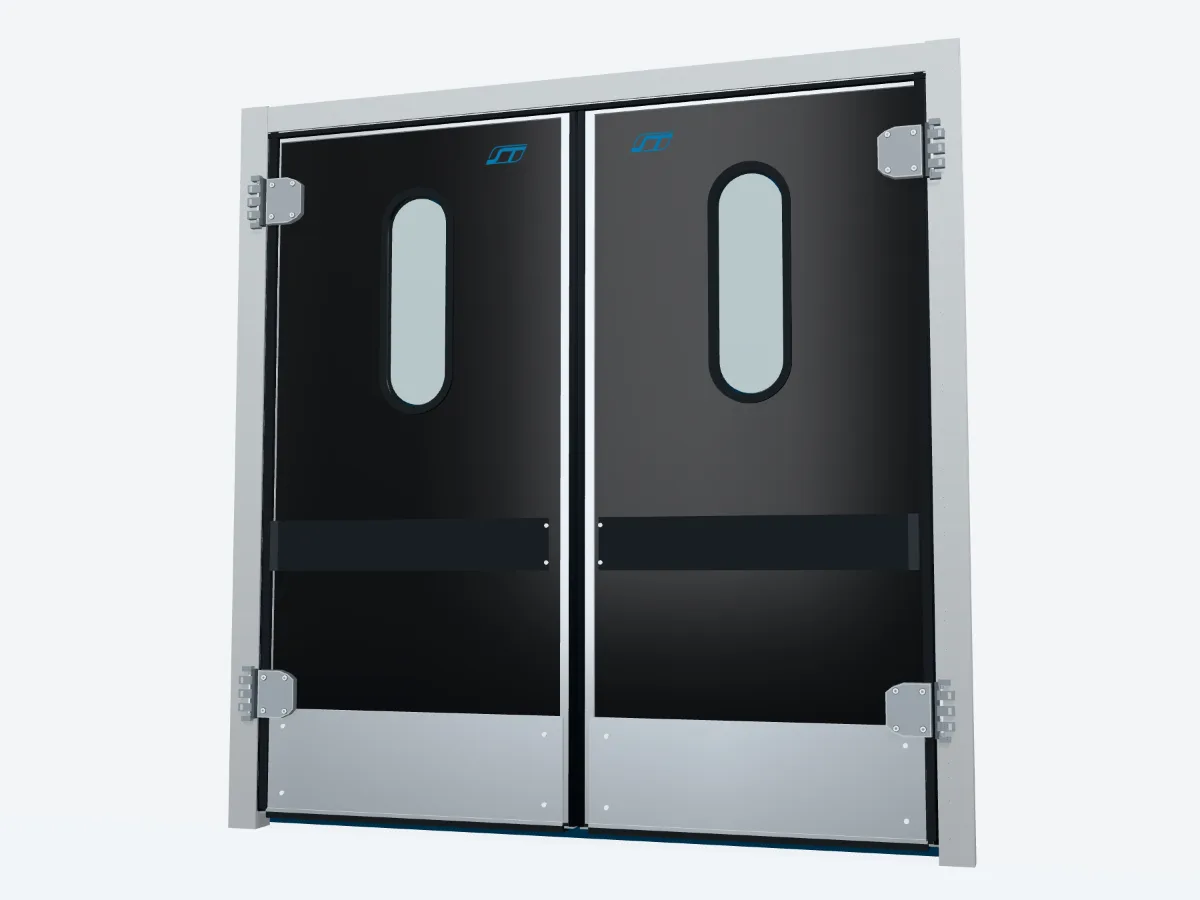
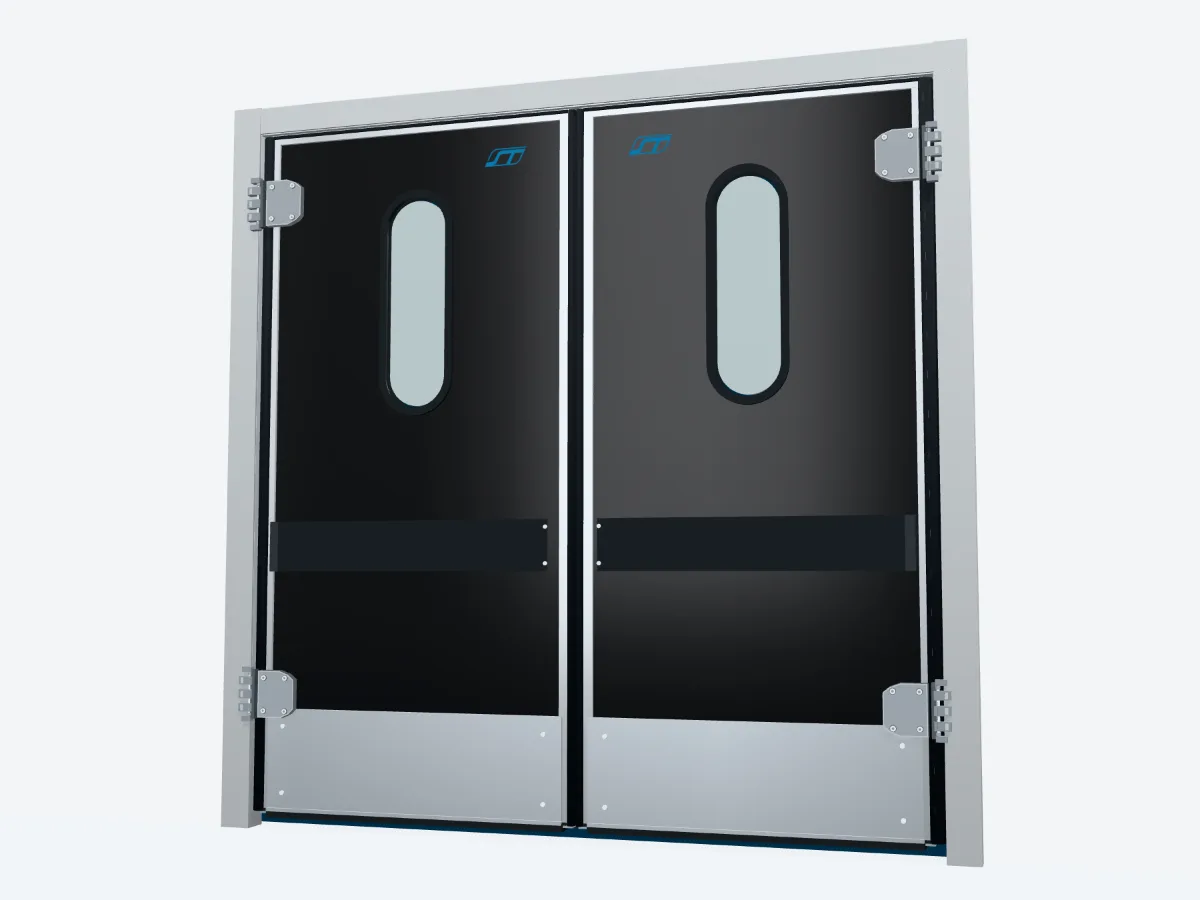
Fase 3C-2 (parte 2): vaivén con bisagra de dos ejes, mitad fija y marco sin intersecciones
- Marco más ancho (cada poste 31.5 mm afuera) y cabezal 6.5 mm más alto, aplicados al cargar;
  frente del marco pegado al cuerpo. vaiven.bin sin cambios.
- Hinge: giro opcional sobre dos ejes (uno por sentido) y arrastre que cambia de eje al pasar
  por el cierre. La abatible no lo usa.
- Columna de nudillos como mitad fija por cara; la de la cara contraria acompaña a la hoja.
- Botón y pasos escalonan las dos hojas para que los empaques del canto no se crucen.
- verify-vaiven: holguras de −63° a +63°; hoja dentro del marco 0 mm (antes 39.9 mm).

Claude-Session: https://claude.ai/code/session_01TBWQEjLHZPnHA2zJL6ZtDh

diff --git a/src/viewers/vaiven.js b/src/viewers/vaiven.js
@@ -7,7 +7,7 @@ import * as THREE from 'three';
 import manifest from '../models/vaiven.json';
 import binUrl from '../models/vaiven.bin?url';
 import logoUrl from '../models/logo-hoja.png';
-import { createRig, VAIVEN } from './vaiven.rig.js';
+import { createRig, VAIVEN, axisLocal, widenFrame, splitPieces } from './vaiven.rig.js';
 import { Hinge, hingeMotion } from '../core/hinge.js';
 import { createBackdrop } from '../core/backdrop.js';
 import { frameBox, orbitView } from '../core/cameraRig.js';
@@ -35,12 +35,13 @@ const FIXED = new Set(['frame-light']);
 const OMIT = new Set(['static/gasket']);
 
 // Cajas de encuadre (m): marco con las hojas cerradas, entreabiertas y abiertas hacia el frente
-const BOX = { closed: [-1.26, 0, -0.06, 1.26, 2.53, 0.10], ajar: [-1.26, 0, -0.06, 1.26, 2.53, 0.60], open: [-1.26, 0, -0.06, 1.26, 2.53, 1.07] };
+const W = 1.2495 + VAIVEN.frame.shift + 0.01, H = 2.5205 + VAIVEN.frame.lift + 0.01;
+const BOX = { closed: [-W, 0, -0.10, W, H, 0.10], ajar: [-W, 0, -0.10, W, H, 0.62], open: [-W, 0, -0.10, W, H, 1.16] };
 
 export function createVaiven(stage, reg) {
   const { root, slots } = createRig();
   // el marco queda dentro del vano del muro; detrás, el interior azul marino
-  const backdrop = createBackdrop(stage, { opening: { left: -1.24, right: 1.24, top: 2.51 }, halfWidth: 12, height: 6, floorDepth: 14, interiorDepth: 1.6 });
+  const backdrop = createBackdrop(stage, { opening: { left: -(1.24 + VAIVEN.frame.shift), right: 1.24 + VAIVEN.frame.shift, top: 2.51 + VAIVEN.frame.lift }, halfWidth: 12, height: 6, floorDepth: 14, interiorDepth: 1.6 });
   root.add(backdrop.group);
 
   // ---------- materiales ----------
@@ -64,7 +65,25 @@ export function createVaiven(stage, reg) {
   }
 
   // ---------- hojas: giran sobre el eje del original, hacia el frente (+) o hacia atrás (−) ----------
-  const hinges = [new Hinge(slots.left, { dir: 1, min: -MAX, max: MAX, mode: 'free' }), new Hinge(slots.right, { dir: -1, min: -MAX, max: MAX, mode: 'free' })];
+  const hinges = [new Hinge(slots.left, { dir: 1, min: -MAX, max: MAX, mode: 'free', axis: axisLocal(1) }), new Hinge(slots.right, { dir: -1, min: -MAX, max: MAX, mode: 'free', axis: axisLocal(-1) })];
+
+  // Mitad fija de cada bisagra: la columna de nudillos (todo el herraje que queda del lado del poste). Hay una por cara.
+  // La del lado hacia el que abre la hoja es el eje y se queda en el marco; la de la cara contraria acompaña a la hoja,
+  // como el eslabón central de una bisagra de doble acción. Cerrada, las dos están en reposo.
+  const knuckles = {};
+  for (const [grp, h] of [['left', hinges[0]], ['right', hinges[1]]]) {
+    const g = { front: new THREE.Group(), back: new THREE.Group() };
+    for (const k of ['front', 'back']) { g[k].name = `Nudillos-${grp}-${k}`; g[k].position.copy(slots[grp].position); slots.static.add(g[k]); }
+    knuckles[grp] = g;
+    h.onChange(() => {
+      const sd = h.side();
+      for (const [k, kside] of [['front', 1], ['back', -1]]) {
+        const follow = sd !== 0 && sd !== kside;
+        g[k].position.copy(follow ? h.pivot.position : h.base); g[k].rotation.y = follow ? h.pivot.rotation.y : 0;
+      }
+    });
+  }
+  const isHardware = (mat) => /^hinge|^screw/.test(mat);
   const hingeOf = { left: hinges[0], right: hinges[1] };
   stage.onFrame.add((dt) => hinges.forEach((h) => h.update(dt)));
 
@@ -77,13 +96,22 @@ export function createVaiven(stage, reg) {
       geo.setAttribute('position', new THREE.BufferAttribute(new Float32Array(buf, po, nv * 3), 3));
       geo.setAttribute('normal', new THREE.BufferAttribute(new Float32Array(buf, no, nv * 3), 3));
       geo.setIndex(new THREE.BufferAttribute(new Uint16Array(buf, io, ni), 1));
+      if (grupo === 'static' && (material === 'frame' || material === 'frame-light')) widenFrame(geo, material === 'frame-light');
       const panel = manifest.materiales[material].superficie === 'acabado';
       if (panel) finishUV(geo);                                 // los acabados compartidos llevan textura: necesitan UV
-      const mesh = new THREE.Mesh(geo, panel ? reg.get(finish) : materials[material]);
-      mesh.name = `${grupo}/${material}/${i}`; mesh.renderOrder = i; mesh.castShadow = true; mesh.receiveShadow = true;
-      if (panel) panels.push(mesh);
-      if (hingeOf[grupo]) mesh.userData.hinge = hingeOf[grupo];                // se puede tomar para girar su hoja
-      slots[grupo].add(mesh); meshes.push(mesh);
+      const add = (g, parent, name, hinge) => {
+        const mesh = new THREE.Mesh(g, panel ? reg.get(finish) : materials[material]);
+        mesh.name = name; mesh.renderOrder = i; mesh.castShadow = true; mesh.receiveShadow = true;
+        if (panel) panels.push(mesh);
+        if (hinge) mesh.userData.hinge = hinge;                 // se puede tomar para girar su hoja
+        parent.add(mesh); meshes.push(mesh);
+      };
+      if (hingeOf[grupo] && isHardware(material)) {
+        // herraje: lo que queda del lado del poste (nudillos, tapas, perno) pasa a la mitad fija de su cara
+        const dir = hingeOf[grupo].dir, parts = splitPieces(geo, (c) => (dir * c.x < 0 ? (c.z > 0 ? 'front' : 'back') : 'leaf'));
+        if (parts.leaf) add(parts.leaf, slots[grupo], `${grupo}/${material}/${i}`, hingeOf[grupo]);
+        for (const k of ['front', 'back']) if (parts[k]) add(parts[k], knuckles[grupo][k], `${grupo}/${material}/${i}/fija-${k}`, null);
+      } else add(geo, slots[grupo], `${grupo}/${material}/${i}`, hingeOf[grupo]);
     }
     applyFinish(finish);
   });
@@ -104,7 +132,23 @@ export function createVaiven(stage, reg) {
   const blockers = []; backdrop.group.traverse((o) => { if (o.isMesh) blockers.push(o); });
   const pickables = () => [...meshes, ...blockers];
   const motion = hingeMotion(stage, hinges, pickables);
-  motion.inside = (on) => hinges.forEach((h) => motion.to(h, on ? AJAR : 0));
+  // Las dos hojas no se mueven a la vez cerca del cierre: sus empaques de canto se cruzarían hasta 6.7 mm hacia los 6°
+  // (docs/DIFERENCIAS_CON_ORIGINALES.md). Al abrir, la segunda arranca cuando la primera pasa de 12°; al cerrar, la
+  // primera espera a que la segunda esté cerrada.
+  const STAGGER = 12; let wait = null;
+  stage.onFrame.add(() => { if (wait && wait.ready()) { const w = wait; wait = null; w.go(); } });
+  const pair = ([a0, a1]) => {
+    const [h0, h1] = hinges; wait = null;
+    const same = (x, y) => x !== 0 && y !== 0 && Math.sign(x) === Math.sign(y);
+    if (same(a0, a1) && Math.abs(h0.angle) < STAGGER && Math.abs(h1.angle) < STAGGER) {           // abrir juntas
+      motion.to(h0, a0); wait = { ready: () => Math.abs(h0.angle) >= STAGGER || matchMedia('(prefers-reduced-motion: reduce)').matches, go: () => motion.to(h1, a1) };
+    } else if (a0 === 0 && a1 === 0 && same(h0.angle, h1.angle)) {                               // cerrar juntas
+      motion.to(h1, 0); wait = { ready: () => h1.angle === 0, go: () => motion.to(h0, 0) };
+    } else { motion.to(h0, a0); motion.to(h1, a1); }
+  };
+  motion.setOpen = (on) => pair(on ? [MAX, MAX] : [0, 0]);
+  motion.inside = (on) => pair(on ? [AJAR, AJAR] : [0, 0]);
+  motion.step = (d) => { if (d.open === undefined) return; const a = String(d.open).split(',').map(Number); pair([a[0], a[1] ?? a[0]]); };
 
   const V = (x, y, z) => new THREE.Vector3(x, y, z);
   return {
@@ -117,7 +161,7 @@ export function createVaiven(stage, reg) {
     // anclas para los puntos de pieza: número de catálogo o, si la pieza no tiene, su id interno
     anchors: [
       { numero: '03', parent: slots.left, position: V(0.5675, 1.80, 0.03) },                       // ventanilla
-      { numero: '02', parent: slots.right, position: V(-0.08, 2.21, 0.085) },                      // bisagra
+      { numero: '02', parent: slots.right, position: V(-0.08, 2.17, 0.083) },                        // bisagra
       { numero: '06', parent: slots.left, position: V(0.56, 0.965, 0.07) },                        // bumper
       { numero: '01', parent: slots.right, position: V(0.0, 1.35, 0.04) },                         // empaque lateral
       { id: 'vaiven-perfil-aluminio-40-mm', parent: slots.left, position: V(1.125, 1.25, 0.034) }, // perfil de la hoja

diff --git a/src/core/hinge.js b/src/core/hinge.js
@@ -4,14 +4,32 @@
 import * as THREE from 'three';
 
 export class Hinge {
-  constructor(pivot, { dir = 1, min = 0, max = 90, mode = 'free', snap = 2 } = {}) {
-    Object.assign(this, { pivot, dir, min, max, mode, snap });
+  // axis (opcional): (lado) => [ax, az], eje de giro en coordenadas de la hoja cerrada, para cada lado de apertura
+  // (+1 hacia el frente, −1 hacia atrás). Sin él, la hoja gira sobre el origen del pivote.
+  constructor(pivot, { dir = 1, min = 0, max = 90, mode = 'free', snap = 2, axis = null } = {}) {
+    Object.assign(this, { pivot, dir, min, max, mode, snap, axis });
+    this.base = pivot.position.clone();
     this.angle = 0; this.target = 0; this.dragging = false; this.listeners = new Set();
+  }
+  side() { return Math.sign(this.angle); }
+  // eje de un lado, en coordenadas del mundo (la hoja cerrada está en su posición de reposo)
+  axisWorld(side, out = new THREE.Vector3()) {
+    const [ax, az] = this.axis ? this.axis(side) : [0, 0];
+    out.set(this.base.x + ax, this.base.y, this.base.z + az);
+    return this.pivot.parent ? this.pivot.parent.localToWorld(out) : out;
   }
   onChange(f) { this.listeners.add(f); }
   set(deg) { this.target = THREE.MathUtils.clamp(deg, this.min, this.max); }
   jump(deg) { this.set(deg); this.angle = this.target; this.apply(); }
-  apply() { this.pivot.rotation.y = -this.dir * THREE.MathUtils.degToRad(this.angle); this.listeners.forEach((f) => f(this)); }
+  apply() {
+    const ry = -this.dir * THREE.MathUtils.degToRad(this.angle);
+    this.pivot.rotation.y = ry;
+    if (this.axis) {                       // girar sobre el eje del lado hacia el que abre: p' = eje + R·(p − eje)
+      const [ax, az] = this.side() ? this.axis(this.side()) : [0, 0], c = Math.cos(ry), s = Math.sin(ry);
+      this.pivot.position.set(this.base.x + ax - (ax * c + az * s), this.base.y, this.base.z + az - (-ax * s + az * c));
+    }
+    this.listeners.forEach((f) => f(this));
+  }
   release() {
     this.dragging = false;
     if (this.mode === 'free' && Math.abs(this.target) < this.snap) this.target = 0;   // cerca del marco, asienta
@@ -46,8 +64,8 @@ export function attachHingeDrag(stage, hinges, { pickables, onGrab, onRelease } 
   // así queda siempre bajo el puntero, gire hacia el frente o hacia atrás. Si el puntero se sale del círculo, la hoja
   // sigue girando en el mismo sentido, a ritmo constante: se puede cruzar de un lado al otro sin soltarla.
   const PAST = 1.5;   // radianes de giro por cada radio que el puntero se aleja del círculo (parecido al ritmo de jalar)
-  const cuts = (h, radius) => {
-    h.pivot.getWorldPosition(axis);
+  const cuts = (h, radius, at = h.pivot.getWorldPosition(axis)) => {
+    axis.copy(at);
     const o = ray.ray.origin, d = ray.ray.direction, ox = h.dir * (o.x - axis.x), oz = o.z - axis.z, dx = h.dir * d.x, dz = d.z;
     const A = dx * dx + dz * dz; if (A < 1e-8) return null;
     const t = -(ox * dx + oz * dz) / A, cx = ox + dx * t, cz = oz + dz * t, rho = Math.hypot(cx, cz);   // punto del rayo más cercano al eje
@@ -62,11 +80,19 @@ export function attachHingeDrag(stage, hinges, { pickables, onGrab, onRelease } 
     const h = x.object.userData.hinge; h.pivot.getWorldPosition(axis);
     const radius = Math.max(0.15, Math.hypot(x.point.x - axis.x, x.point.z - axis.z));
     let a0, root = null;
-    if (h.min < 0) {
+    if (h.min < 0 && h.axis) {
+      // dos ejes: para cada lado, radio y ángulo de reposo del punto tomado alrededor de su eje
+      const L = h.pivot.worldToLocal(x.point.clone());
+      const sides = {};
+      for (const sd of [1, -1]) { const [ax, az] = h.axis(sd); sides[sd] = { W: h.axisWorld(sd), r: Math.max(0.15, Math.hypot(L.x - ax, L.z - az)), phi: THREE.MathUtils.radToDeg(Math.atan2(L.z - az, h.dir * (L.x - ax))), root: null }; }
+      // en cada eje, el punto tomado está en uno de los dos cortes del rayo: ese corte se sigue durante todo el gesto
+      for (const sd of [1, -1]) { const S = sides[sd], c = cuts(h, S.r, S.W), ref = Math.sign(h.angle) === sd ? h.angle : 0; if (c) S.root = Math.abs(turnsTo(c.near - S.phi, ref) - ref) <= Math.abs(turnsTo(c.far - S.phi, ref) - ref) ? 'near' : 'far'; }
+      active = { h, sides, side: Math.sign(h.angle), last: h.angle };
+    } else if (h.min < 0) {
       const s = cuts(h, radius), at = THREE.MathUtils.radToDeg(Math.atan2(x.point.z - axis.z, h.dir * (x.point.x - axis.x)));
       if (s) { root = Math.abs(turnsTo(s.near, at) - at) <= Math.abs(turnsTo(s.far, at) - at) ? 'near' : 'far'; a0 = turnsTo(s[root], at); } else a0 = null;
     } else a0 = angleAt(h, radius);
-    active = { h, radius, root, last: a0, offset: a0 === null ? 0 : h.angle - a0 };
+    if (!active) active = { h, radius, root, last: a0, offset: a0 === null ? 0 : h.angle - a0 };
     h.dragging = true; controls.enabled = false; e.stopImmediatePropagation();
     try { canvas.setPointerCapture(e.pointerId); } catch { /* sin captura */ }
     canvas.style.cursor = 'grabbing'; onGrab && onGrab(h);
@@ -74,6 +100,17 @@ export function attachHingeDrag(stage, hinges, { pickables, onGrab, onRelease } 
   canvas.addEventListener('pointermove', (e) => {
     if (!active) { if (e.pointerType === 'mouse') canvas.style.cursor = hit(e) ? 'grab' : ''; return; }
     setRay(e);
+    if (active.sides) {
+      // ángulo según el eje del lado en curso; si el resultado cae del otro lado, la hoja pasó por el cierre y manda el otro eje
+      const solve = (sd, ref) => { const S = active.sides[sd], c = S.root && cuts(active.h, S.r, S.W); return c ? turnsTo(c[S.root] - S.phi, ref) : null; };
+      let sd = active.side || 0, th = sd ? solve(sd, active.last) : null;
+      if (!sd || th === null || sd * th < 0) {
+        const cand = [1, -1].map((k) => [k, solve(k, 0)]).filter(([k, v]) => v !== null && k * v >= 0);
+        if (cand.length) { cand.sort((p, q) => Math.abs(p[1] - active.last) - Math.abs(q[1] - active.last)); [sd, th] = cand[0]; } else { sd = 0; th = 0; }
+      }
+      active.side = Math.sign(th) || sd; active.last = th; active.h.set(th);
+      return;
+    }
     if (active.root) { const s = cuts(active.h, active.radius); if (s) { active.last = turnsTo(s[active.root], active.last); active.h.set(active.last + active.offset); } return; }
     const a = angleAt(active.h, active.radius); if (a !== null) active.h.set(a + active.offset);
   });

diff --git a/src/viewers/vaiven.rig.js b/src/viewers/vaiven.rig.js
@@ -1,11 +1,22 @@
 // Árbol de nodos de la vaivén. Las mallas de cada hoja vienen en coordenadas locales de su bisagra:
 // el pivote ES el eje de giro del modelo original (x = ∓1.145 m, z = 0) y lo único que se anima es su rotation.y.
-import { Group } from 'three';
+import * as THREE from 'three';
+const { Group } = THREE;
 
 export const VAIVEN = {
   hingeX: 1.145,        // ejes de giro: hoja izquierda en −x, derecha en +x
   openAngle: 1.10,      // apertura del original con «Abrir ambas» (rad) ≈ 63°
+  // Fase 3C-2. Ejes reales de la bisagra de doble acción: en la columna de nudillos, 30 mm hacia el poste desde el eje
+  // del original y 78 mm hacia la cara por la que abre. La hoja gira sobre el nudillo del frente al abrir hacia el
+  // frente y sobre el de atrás al abrir hacia atrás; así ningún punto de la hoja entra en el poste.
+  axis: { toJamb: 0.030, depth: 0.078 },
+  // Marco: el original es 59 mm más angosto que las dos hojas con su empaque. Cada poste se separa 31.5 mm y el
+  // cabezal sube 6.5 mm (holgura de 2 y 3 mm). El frente del marco se pega al cuerpo (había 5.5 mm de separación).
+  frame: { shift: 0.0315, lift: 0.0065, plate: 0.0055 },
 };
+
+// eje de la hoja (dir = +1 izquierda, −1 derecha) para el lado de apertura (+1 frente, −1 atrás), en coordenadas de la hoja
+export const axisLocal = (dir) => (side) => [-dir * VAIVEN.axis.toJamb, side * VAIVEN.axis.depth];
 
 export function createRig() {
   const named = (name) => { const g = new Group(); g.name = name; return g; };
@@ -15,3 +26,36 @@ export function createRig() {
   // dónde se cuelgan las mallas de cada grupo del original
   return { root, slots: { static: fixed, left, right } };
 }
+
+// Marco más ancho y más alto (VAIVEN.frame). Se mueven vértices de cajas: los postes se separan, el cabezal se
+// alarga y sube, y el frente del marco se pega al cuerpo. La geometría de las hojas no se toca.
+export function widenFrame(geo, plate) {
+  const { shift, lift } = VAIVEN.frame, src = geo.attributes.position, p = new Float32Array(src.array);
+  let head = 0; for (let k = 0; k < src.count; k++) if (Math.abs(p[k * 3]) < 1) head = 1;   // ¿hay cabezal en la malla?
+  for (let k = 0; k < src.count; k++) {
+    const x = p[k * 3], y = p[k * 3 + 1];
+    if (Math.abs(x) > 1.1) p[k * 3] = x + Math.sign(x) * shift;                 // postes y extremos del cabezal
+    if (y > 2.4) p[k * 3 + 1] = y + lift;                                         // cabezal y remate de los postes
+    if (plate) p[k * 3 + 2] -= VAIVEN.frame.plate;
+  }
+  geo.setAttribute('position', new THREE.BufferAttribute(p, 3)); return head;
+}
+
+// Separa una malla en piezas sueltas (componentes conexas) y las agrupa con key(centro de la pieza)
+export function splitPieces(geo, key) {
+  const pos = geo.attributes.position, idx = geo.index.array, n = pos.count, par = new Int32Array(n).map((_, k) => k);
+  const find = (a) => { while (par[a] !== a) { par[a] = par[par[a]]; a = par[a]; } return a; };
+  for (let t = 0; t < idx.length; t += 3) { par[find(idx[t])] = find(idx[t + 1]); par[find(idx[t + 1])] = find(idx[t + 2]); }
+  const sum = new Map();
+  for (let k = 0; k < n; k++) { const r = find(k), q = sum.get(r) || [0, 0, 0, 0]; q[0] += pos.getX(k); q[1] += pos.getY(k); q[2] += pos.getZ(k); q[3]++; sum.set(r, q); }
+  const label = new Map([...sum].map(([r, q]) => [r, key({ x: q[0] / q[3], y: q[1] / q[3], z: q[2] / q[3] })]));
+  const lists = {};
+  for (let t = 0; t < idx.length; t += 3) (lists[label.get(find(idx[t]))] ||= []).push(idx[t], idx[t + 1], idx[t + 2]);
+  const out = {};
+  for (const [k, list] of Object.entries(lists)) {
+    const g = new THREE.BufferGeometry(); g.setAttribute('position', pos); g.setAttribute('normal', geo.attributes.normal);
+    g.setIndex(new THREE.BufferAttribute(new Uint16Array(list), 1)); out[k] = g;
+  }
+  return out;
+}
+

diff --git a/docs/FASE_3C2_RESUMEN.md b/docs/FASE_3C2_RESUMEN.md
@@ -1,0 +1,55 @@
+# FASE 3C-2 · Puerta vaivén: correcciones — resumen
+
+**Fecha:** 14 nov 2026 · **Modelo:** Opus 5.5 (Fable ya no estaba disponible)
+**Archivos originales:** no se modificó ninguno. `vaiven.bin` sigue idéntico al modelo aprobado; las correcciones se aplican al cargar.
+
+## Qué quedó listo
+
+1. **El perfil de aluminio de las orillas se ve completo en las dos caras** (lo que reportaste).
+   - Causa: el marco traía tres tiras negras solo por el frente. Tapaban el perfil del lado de la bisagra y arriba, se metían 7 mm en él y se quedaban flotando al abrir.
+   - Ahora: el perfil mide lo mismo de frente y por detrás, 29 px en la vista de prueba (antes 0 de frente).
+2. **La hoja ya no atraviesa el marco.**
+   - Antes entraba hasta 39.9 mm en el poste y 3.5 mm en el cabezal. Ahora, 0 mm en los 253 ángulos medidos, de −63° a +63°.
+   - Para lograrlo el marco crece: cada poste se separa 31.5 mm (el marco es 63 mm más ancho) y el cabezal sube 6.5 mm.
+   - Las hojas no cambian: misma medida, misma posición cerrada, misma orientación y misma apertura de 63°.
+3. **Bisagra de dos ejes con mitad fija.**
+   - La columna de nudillos queda en el marco; las placas con tornillos van con la hoja.
+   - Al empujar hacia el frente, la hoja gira sobre el nudillo del frente; hacia atrás, sobre el de atrás.
+   - Los nudillos de la cara contraria acompañan a la hoja, como el eslabón central de una bisagra de doble acción. Sin eso, la placa de esa cara se habría separado de su nudillo.
+4. **Las hojas ya no cruzan sus empaques al abrir y cerrar juntas.** Con el botón, una arranca primero y la otra la sigue al pasar los 12°.
+5. **El arrastre sigue funcionando hacia los dos lados**, con el eje correcto. El punto que tomas queda bajo el dedo o el puntero.
+
+## Verificación
+
+**Probado** en el build de producción, con Chromium y render por software:
+
+| Prueba | Resultado |
+|---|---|
+| Geometría contra el original | 0 diferencias en 458 568 valores |
+| Hoja dentro del marco, de −63° a +63° | 0 mm (antes 39.9 mm) |
+| Mitad fija dentro del poste | 0 mm |
+| Orientación y posición cerrada frente al original | Iguales (diferencia 0.00000003) |
+| Prueba de control con el eje y el marco originales | Marca 39.89 mm y falla: la verificación sí detecta el problema |
+| Entre hojas con el botón | 0 cuadros con las dos hojas a la vez cerca del cierre |
+| Perfil de aluminio, frente y atrás | 29 px en las dos caras |
+| Página de la vaivén | 23 de 23 comprobaciones (arrastre, botón, pasos, marco completo en 4 tamaños, táctil emulado, respaldos) |
+| Pasos en celular, tableta y escritorio; saltos largos | Correctos |
+| Abatible y corrediza | Idénticas píxel a píxel a la Fase 3C-1 |
+| Las 11 páginas del sitio, escritorio y celular | Sin errores |
+| Vista rápida de un solo archivo | Abre sin internet, en escritorio y celular |
+
+**No probado:** Safari, celulares reales, dedo real (solo emulado), GPU real y lectores de pantalla.
+
+## Límites
+
+- **Empaques de canto al arrastrar.** Si arrastras una hoja mientras la otra está entreabierta entre 3° y 9°, sus empaques de canto pueden cruzarse hasta 6.7 mm. Es hule contra hule.
+- **Ancho del marco.** Es 63 mm mayor que el del modelo original. Si me pasas las medidas reales de vano y hoja, lo ajusto a eso.
+- **Forma de la bisagra.** Los ejes salen de la geometría de los nudillos, no de una ficha técnica. Con fotos de la bisagra instalada se puede afinar.
+
+## Archivos
+
+- `src/viewers/vaiven.rig.js`: ejes, medidas del marco y las funciones que ensanchan el marco y separan la bisagra.
+- `src/viewers/vaiven.js`: mitad fija y escalonado de las dos hojas.
+- `src/core/hinge.js`: giro sobre dos ejes y arrastre con cambio de eje. La abatible no cambia.
+- `scripts/verify-vaiven.mjs`: sección de holguras.
+- `docs/DIFERENCIAS_CON_ORIGINALES.md`: secciones 3C-2, parte 1 y parte 2.

diff --git a/docs/DIFERENCIAS_CON_ORIGINALES.md b/docs/DIFERENCIAS_CON_ORIGINALES.md
@@ -202,3 +202,44 @@ Lo que sí está bien y se comprobó: las dos hojas son independientes y **no se
 | Atrás | perfil 29 px y empaque de la hoja 31 px | igual |
 
 Ahora se dibujan 32 mallas y 25 440 triángulos (antes 33 y 25 476).
+
+## Puerta vaivén · Fase 3C-2, parte 2: bisagras de dos ejes, mitad fija y marco sin intersecciones
+
+Decisiones de ST: "Dos ejes y mitad fija". En el ancho del vano no hubo preferencia; se tomó la opción recomendada, ensanchar el marco y no tocar las hojas.
+
+### Problema medido en el original
+
+- **Las hojas no caben en el marco.** Cada hoja con su empaque mide 30 mm más de lo que cabe entre los postes; en total faltan 59 mm.
+- **La hoja atraviesa el marco.** Gira sobre un eje pegado a la cara del poste. Cerrada, el empaque ya entra 30 mm en el poste y a 63° llega a 40 mm. El canto superior entra 3.5 mm en el cabezal.
+- **La bisagra entera gira con la hoja.** No había una parte fija en el marco.
+
+### Cambios
+
+| Elemento | Original | Ahora |
+|---|---|---|
+| Postes | Cara interior a ±1.1445 m | Cada poste 31.5 mm hacia afuera; holgura de 2 mm con el empaque de la hoja |
+| Cabezal | Parte baja a 2.4215 m | 6.5 mm más arriba; holgura de 3 mm |
+| Frente del marco | Separado 5.5 mm del cuerpo | Pegado al cuerpo |
+| Muro | Vano de ±1.24 m | Vano ensanchado lo mismo que el marco |
+| Eje de giro | Uno solo, en el canto, para los dos sentidos | Dos ejes, en la columna de nudillos: 30 mm hacia el poste y 78 mm hacia el frente o hacia atrás. La hoja gira sobre el del lado hacia el que abre |
+| Bisagra | Todo el herraje gira con la hoja | La columna de nudillos (con tapas y perno) es la mitad fija. Hay una por cara: la del lado hacia el que abre se queda en el marco; la de la cara contraria acompaña a la hoja, como el eslabón central de una bisagra de doble acción. Las placas con tornillos van siempre con la hoja |
+| Botón Abrir / Cerrar | Las dos hojas a la vez | La segunda hoja arranca cuando la primera pasa de 12°. Al cerrar, la primera espera a que la segunda cierre. Así los empaques del canto no se cruzan |
+| Arrastre | Un eje | Sigue al eje del lado en curso y cambia de eje al pasar por el cierre. El punto tomado sigue bajo el puntero (0.01 px de error en la prueba) |
+
+**Lo que no cambia:** la geometría de las hojas (panel, perfil, empaques, ventanilla, bumper, placa inferior, bisagras), su orientación en cada ángulo, su posición cerrada y la apertura máxima de 63.03°. `vaiven.bin` sigue idéntico al original. El ensanchado del marco y la separación de la bisagra se hacen al cargar, con las mismas funciones que usa la verificación (`src/viewers/vaiven.rig.js`).
+
+### Verificación (`scripts/verify-vaiven.mjs`, sección 3C-2)
+
+Se recorre la hoja izquierda de −63° a +63° en pasos de 0.5° (253 ángulos), con todos sus vértices. La derecha es su espejo.
+
+| Medida | Original | Ahora |
+|---|---|---|
+| Hoja dentro del marco (postes y cabezal) | 39.9 mm | 0 mm |
+| Mitad fija dentro del poste | — | 0 mm |
+| Orientación de la hoja frente al original | — | Igual (diferencia 0.00000003) |
+| Hoja cerrada frente al original | — | Igual (diferencia 0.00000002) |
+| Entre hojas | 0 mm | Solo empaques de canto, hasta 6.7 mm si las dos pasan a la vez cerca de los 6°. Con el escalonado del botón no pasa (0 cuadros en la prueba). Con la otra hoja cerrada, 1.5 mm |
+
+Prueba de control: con el eje y el marco del original, la misma verificación marca 39.89 mm y falla. Es decir, sí detecta el problema.
+
+**Límite:** al arrastrar una hoja mientras la otra está entreabierta entre 3° y 9°, sus empaques de canto pueden cruzarse hasta 6.7 mm. Es hule contra hule; en una puerta real se comprimen.
